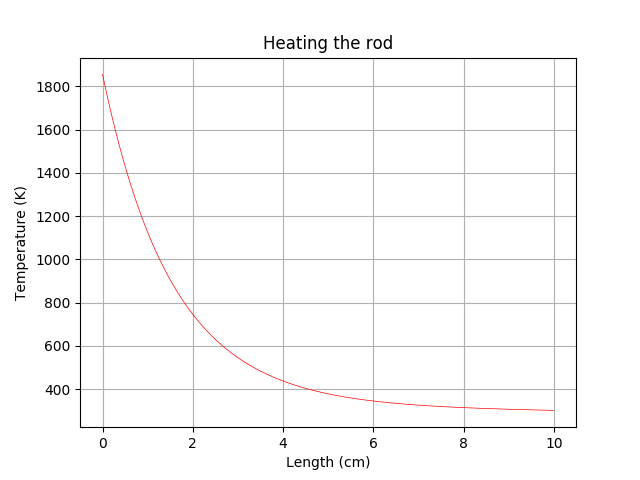
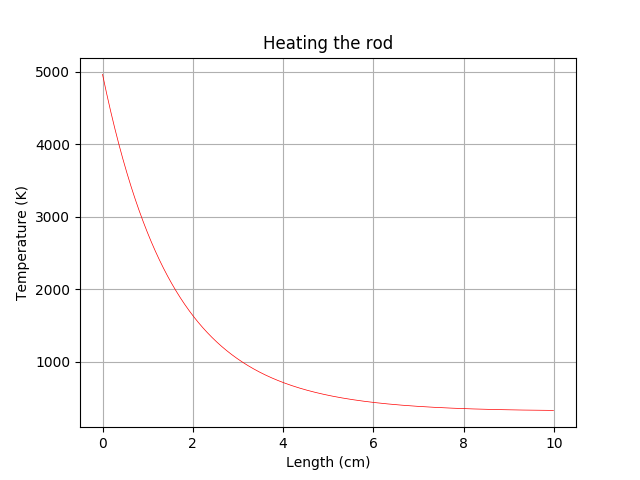
Lab 4

diff --git a/Lab 4./main.py b/Lab 4./main.py
@@ -1,0 +1,134 @@
+from data_getter import Data
+from method import fixed_point_iteration
+from math import fabs
+from numpy import arange
+
+
+def left_boundary_conditions():
+    # relative to the current temperature
+    X_half = Data.Xn_plus_half(Data.x0)
+    p_half = Data.p(Data.x0 + Data.h / 2)
+    p0 = Data.p(Data.x0)
+
+    f0 = Data.f(Data.x0)
+    f1 = Data.f(Data.x0 + Data.h)
+
+    C0 = Data.C(Data.x0)
+    C_half = Data.C(Data.x0 + Data.h / 2)
+
+    K0 = Data.tau * (X_half / Data.h + Data.h / 8 * p_half + Data.h / 4 * p0) + \
+        Data.h / 4 * C0 + Data.h / 8 * C_half
+
+    M0 = Data.tau * (Data.h / 8 * p_half - X_half / Data.h) + Data.h / 8 * C_half
+
+    P0 = Data.tau * Data.F0 + Data.tau * Data.h / 8 * (3 * f0 + f1) + \
+        Data.h / 4 * C0 * Data.T_curr[Data.x0] + \
+        Data.h / 8 * C_half * (Data.T_curr[Data.x0] + Data.T_curr[Data.x0 + Data.h])
+
+    return K0, M0, P0
+
+
+def right__boundary_conditions():
+    # relative to the current temperature
+    X_half = Data.Xn_minus_half(Data.l)
+    pN = Data.p(Data.l)
+    p_half = Data.p(Data.l - Data.h / 2)
+
+    fN = Data.f(Data.l)
+    fN1 = Data.f(Data.l - Data.h)
+
+    CN = Data.C(Data.l)
+    C_half = Data.C(Data.l - Data.h / 2)
+
+    KN = - Data.tau * (X_half / Data.h + Data.alphaN + Data.h / 4 * pN + Data.h / 8 * p_half) + \
+        Data.h / 4 * CN + Data.h / 8 * C_half
+
+    MN = Data.tau * (X_half / Data.h - Data.h / 8 * p_half) + Data.h / 8 * C_half
+
+    PN = - Data.alphaN * Data.Tenv * Data.tau - Data.tau * Data.h / 8 * (3 * fN + fN1) + \
+        Data.h / 4 * CN * Data.T_curr[Data.l] + \
+        Data.h / 8 * C_half * (Data.T_curr[Data.l] + Data.T_curr[Data.l - Data.h])
+
+    return KN, MN, PN
+
+
+def calc_coefficients():
+    # relative to the current temperature
+    A = []
+    B = []
+    D = []
+    F = []
+
+    for i in arange(Data.x0, Data.l, Data.h):
+        i = round(i, Data.rounding)
+        An = Data.tau * Data.Xn_minus_half(i) / Data.h
+        Dn = Data.tau * Data.Xn_plus_half(i) / Data.h
+        Bn = An + Dn + Data.p(i) * Data.h * Data.tau + Data.C(i) * Data.h
+        Fn = Data.C(i) * Data.h * Data.T_curr[i] + Data.f(i) * Data.h * Data.tau
+
+        A.append(An)
+        B.append(Bn)
+        D.append(Dn)
+        F.append(Fn)
+
+    return A, B, D, F
+
+
+def calc_changes(a, b):
+    lb = len(b)
+    la = len(a)
+
+    if lb > la:
+        a, b = b, a
+
+    diff = []
+    for i in range(la):
+        if lb > i:
+            diff.append(fabs(b[i] - a[i]))
+        else:
+            diff.append(a[i])
+    return diff
+
+
+def get_values_from_dict(x: dict):
+    return [x[item] for item in x.keys()]
+
+
+def distribute_temperature(T):
+    res = {}
+    x = Data.x0
+    for t in T:
+        res.update({round(x, Data.rounding): t})
+        x += Data.h
+
+    return res
+
+
+if __name__ == "__main__":
+    a, b, c, d = calc_coefficients()
+    k0, m0, p0 = left_boundary_conditions()
+    kN, mN, pN = right__boundary_conditions()
+
+    T_prev = get_values_from_dict(Data.T_curr)
+
+    while True:
+        while True:
+            T = fixed_point_iteration(a, b, c, d, k0, m0, p0, kN, mN, pN)
+            diff = calc_changes(get_values_from_dict(Data.T_curr), T)
+            m = max(diff)
+            if m / T[diff.index(m)] < Data.eps:
+                break
+            else:
+                Data.T_curr = distribute_temperature(T)
+                a, b, c, d = calc_coefficients()
+                k0, m0, p0 = left_boundary_conditions()
+                kN, mN, pN = right__boundary_conditions()
+
+        diff = calc_changes(T, T_prev)
+        m = max(diff)
+        if m / T[diff.index(m)] < Data.eps:
+            break
+        else:
+            Data.t_curr += Data.tau
+            T_prev = get_values_from_dict(Data.T_curr)
+            print(T_prev)

diff --git a/Lab 4./data_getter.py b/Lab 4./data_getter.py
@@ -1,0 +1,116 @@
+from numpy import arange
+from method import two_d_interpolation
+
+
+class Data:
+    x0 = 0
+    l = 10           # Length of the rod (cm)
+    R = 0.5          # Radius of the rod (cm)
+    Tenv = 300       # Ambient temperature (K)
+    F0 = 100         # Heat flux density (W / (cm^2 * K))
+    alpha0 = 1e-2    # Heat transfer coefficient at the beginning of the rod (W / (cm^2 * K))
+    alphaN = 0.9e-2  # Heat transfer coefficient at the end of the rod (W / (cm^2 * K))
+    h = 1e-2
+    tau = 1e-2
+    eps = 1e-3
+    rounding = 2
+    a_alpha = (alphaN * l * alpha0) / (alpha0 - alphaN)
+    b_alpha = (alphaN * l) / (alphaN - alpha0)
+
+    T_curr = {round(x, 2): 300 for x in arange(x0, l+h, h)}
+    t_curr = 0
+
+    @staticmethod
+    def get_table_of_heat_cap():
+        return {300:	2.544,
+                400:	2.615,
+                500:	2.656,
+                600:	2.689,
+                700:	2.717,
+                800:	2.748,
+                900:	2.783,
+                1000:	2.817,
+                1200:	2.893,
+                1400:	2.977,
+                1600:	3.070,
+                1800:	3.124,
+                2000:	3.270,
+                2200:	3.381,
+                2400:	3.502,
+                2600:	3.640,
+                2800:	3.792,
+                3000:	3.968}
+
+    @staticmethod
+    def get_table_of_thermal_cond():
+        return {300:    0.163,
+                400:	0.156,
+                500:	0.146,
+                600:	0.137,
+                700:	0.130,
+                800:	0.124,
+                900:	0.120,
+                1000:	0.117,
+                1200:	0.114,
+                1400:	0.111,
+                1600:	0.110,
+                1800:	0.109,
+                2000:   0.108,
+                2200:	0.107,
+                2400:	0.107,
+                2600:	0.107,
+                2800:	0.109,
+                3000:	0.108}
+
+    @staticmethod
+    def alpha(x):
+        return Data.a_alpha / (x - Data.b_alpha)
+
+    @staticmethod
+    def k(x):
+        if x in Data.T_curr.keys():
+
+            T = Data.T_curr[x]
+        else:
+            T = two_d_interpolation(Data.T_curr, x)
+        table = Data.get_table_of_thermal_cond()
+        if T in table.keys():
+            return table[T]
+        else:
+            # interpolation
+            return two_d_interpolation(table, T)
+
+    @staticmethod
+    def C(x):
+        if x in Data.T_curr.keys():
+            T = Data.T_curr[x]
+        else:
+            T = two_d_interpolation(Data.T_curr, x)
+        table = Data.get_table_of_heat_cap()
+        if T in table.keys():
+            return table[T]
+        else:
+            # interpolation
+            return two_d_interpolation(table, T)
+
+    @staticmethod
+    def Xn_minus_half(x):
+        return (Data.k(x - Data.h) + Data.k(x)) / 2
+
+    @staticmethod
+    def Xn_plus_half(x):
+        return (Data.k(x) + Data.k(x + Data.h)) / 2
+
+    @staticmethod
+    def p(x):
+        return 2 * Data.alpha(x) / Data.R
+
+    @staticmethod
+    def f(x):
+        return 2 * Data.alpha(x) / Data.R * Data.Tenv
+
+
+if __name__ == "__main__":
+    print(Data.C(0.49585855))
+
+

diff --git a/Lab 4./method.py b/Lab 4./method.py
@@ -1,0 +1,47 @@
+def fixed_point_iteration(A, B, C, D, K0, M0, P0, KN, MN, PN):  # Tridiagonal matrix algorithm
+    # Initial values
+    xi = [None, - M0 / K0]
+    eta = [None, P0 / K0]
+
+    # Straight running
+    for i in range(1, len(A)):
+        x = C[i] / (B[i] - A[i] * xi[i])
+        e = (D[i] + A[i] * eta[i]) / (B[i] - A[i] * xi[i])
+
+        xi.append(x)
+        eta.append(e)
+
+    # print(xi)
+    # print(eta)
+
+    # Reverse running
+    y = [(PN - MN * eta[-1]) / (KN + MN * xi[-1])]
+
+    for i in range(len(A) - 1, -1, -1):
+        y_i = xi[i + 1] * y[0] + eta[i + 1]
+
+        y.insert(0, y_i)
+
+    return y
+
+
+def two_d_interpolation(table: dict, x):
+    xs = list(table.keys())
+    xs.sort()
+    if x in xs:
+        return x
+    elif x > xs[-1]:
+        return xs[-1]
+    elif x < xs[0]:
+        return xs[0]
+    else:
+        for i in range(len(xs) - 1):
+            if xs[i] < x < xs[i + 1]:
+                return table[xs[i]] + (table[xs[i + 1]] - table[xs[i]]) / (xs[i + 1] - xs[i]) * (x - xs[i])
+
+
+
+
+
+
+

diff --git a/Lab 3./method.py b/Lab 3./method.py
@@ -18,9 +18,7 @@ def thomas_algorithm(A, B, C, D, K0, M0, P0, KN, MN, PN):  # Tridiagonal matrix 
     y = [(PN - MN * eta[-1]) / (KN + MN * xi[-1])]
 
     for i in range(len(A) - 2, -1, -1):
-        y_i = xi[i + 1] * \
-              y[0] + \
-              eta[i + 1]
+        y_i = xi[i + 1] *  y[0] + eta[i + 1]
 
         y.insert(0, y_i)
 

diff --git a/Lab 3./main.py b/Lab 3./main.py
@@ -4,7 +4,6 @@ from numpy import arange
 import matplotlib.pyplot as plt
 
 
-
 def left_boundary_conditions():
     k1 = Data.k(Data.x0 + Data.h)
     alpha_half = Data.alpha(Data.x0 + Data.h / 2)
